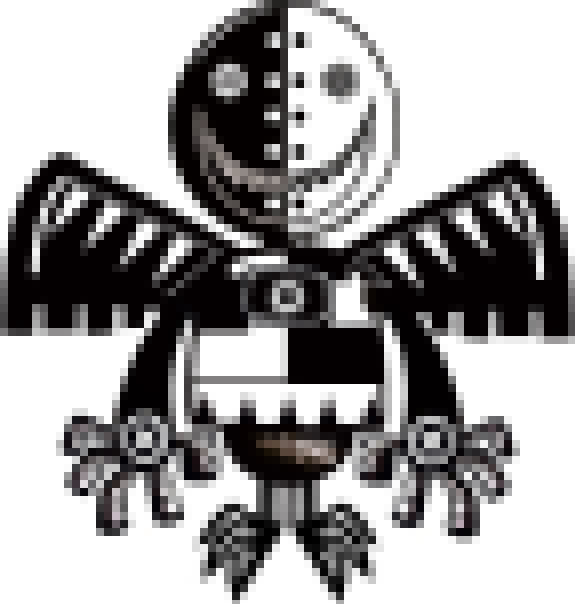
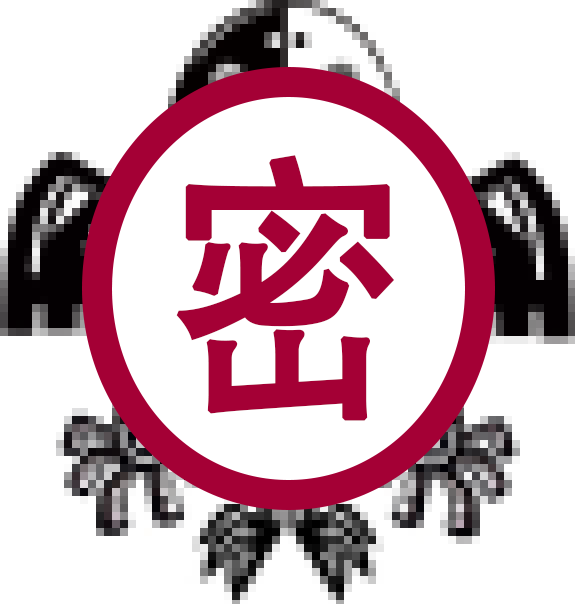
fix user image when use special robot.

diff --git a/app/controllers/GameshopController.php b/app/controllers/GameshopController.php
@@ -134,18 +134,30 @@ class GameshopController extends BaseController {
 			imagecopy( $im, $mapImage, 0, 0, 45, 0, 510, 600);
 		}
 
-		$footImage = imagecreatefrompng(public_path('images/gameShop/' . $EquipItem[3]->picture));
-		imagecopy( $im, $footImage, 158, 518, 0, 0, 215, 102);
+		if ( $user->head != 42 ) {
+			$footImage = imagecreatefrompng(public_path('images/gameShop/' . $EquipItem[3]->picture));
+			imagecopy( $im, $footImage, 158, 518, 0, 0, 215, 102);
 
-		$bodyImage = imagecreatefrompng(public_path('images/gameShop/' . $EquipItem[2]->picture));
-		imagecopy( $im, $bodyImage, 32, 270, 0, 0, 459, 303);
+			$bodyImage = imagecreatefrompng(public_path('images/gameShop/' . $EquipItem[2]->picture));
+			imagecopy( $im, $bodyImage, 32, 270, 0, 0, 459, 303);
 
-		$headImage = imagecreatefrompng(public_path('images/gameShop/' . $EquipItem[0]->picture));
-		imagecopy( $im, $headImage, 114, 0, 0, 0, 289, 289);
+			$headImage = imagecreatefrompng(public_path('images/gameShop/' . $EquipItem[0]->picture));
+			imagecopy( $im, $headImage, 114, 0, 0, 0, 289, 289);
 
-		$faceImage = imagecreatefrompng(public_path('images/gameShop/' . $EquipItem[1]->picture));
-		imagecopy( $im, $faceImage, 37 + $EquipItem[0]->face_middle_x, $EquipItem[0]->face_middle_y - 70, 0, 0, 156, 137);
-		
+			$faceImage = imagecreatefrompng(public_path('images/gameShop/' . $EquipItem[1]->picture));
+			imagecopy( $im, $faceImage, 37 + $EquipItem[0]->face_middle_x, $EquipItem[0]->face_middle_y - 70, 0, 0, 156, 137);
+
+			imagedestroy($headImage);
+			imagedestroy($faceImage);
+			imagedestroy($bodyImage);
+			imagedestroy($footImage);
+		}
+		else {
+			$specialImage = imagecreatefrompng(public_path('images/gameShop/special/real-special.png'));
+			imagecopy( $im, $specialImage, 2, 40, 0, 0, 506, 532);
+			imagedestroy($specialImage);
+		}
+
 		if ( $user->item != 0) {
 			$itemImage = imagecreatefrompng(public_path('images/gameShop/' . $EquipItem[4]->picture));
 			imagecopy( $im, $itemImage, 0, 0, 0, 0, 136, 193);
@@ -153,9 +165,6 @@ class GameshopController extends BaseController {
 		
 		imagepng($im, 'img/person/' . Auth::user()['id'] . '.png');
 		imagedestroy($im);
-		imagedestroy($headImage);
-		imagedestroy($faceImage);
-		imagedestroy($bodyImage);
-		imagedestroy($footImage);
+		
 	}
 }
